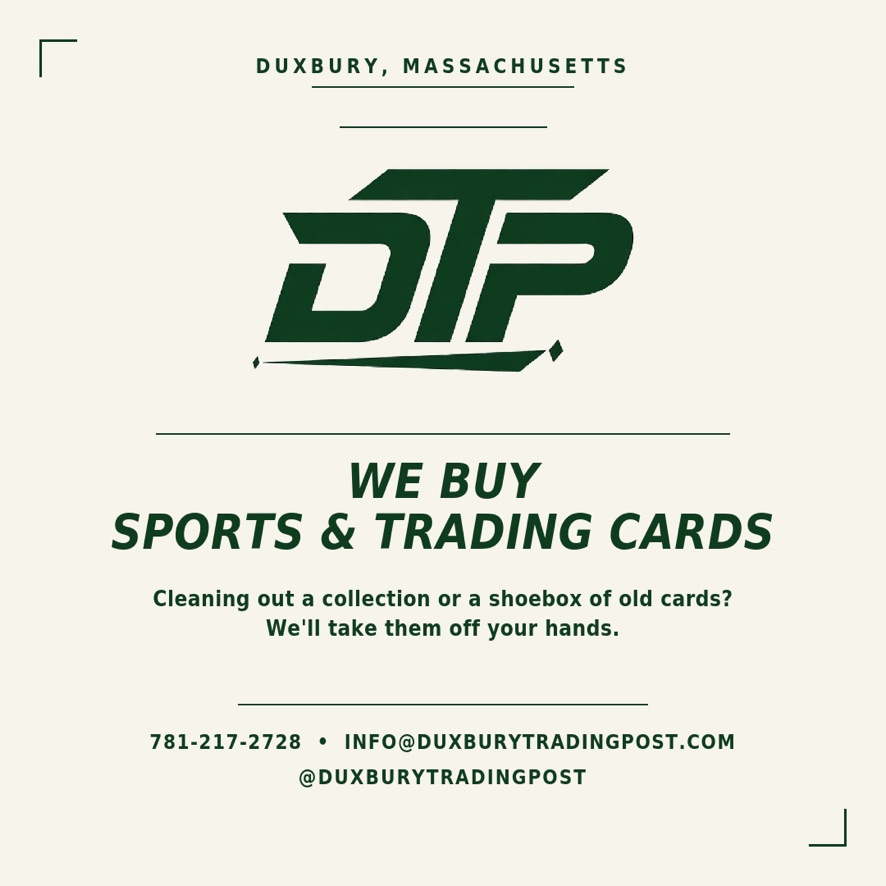
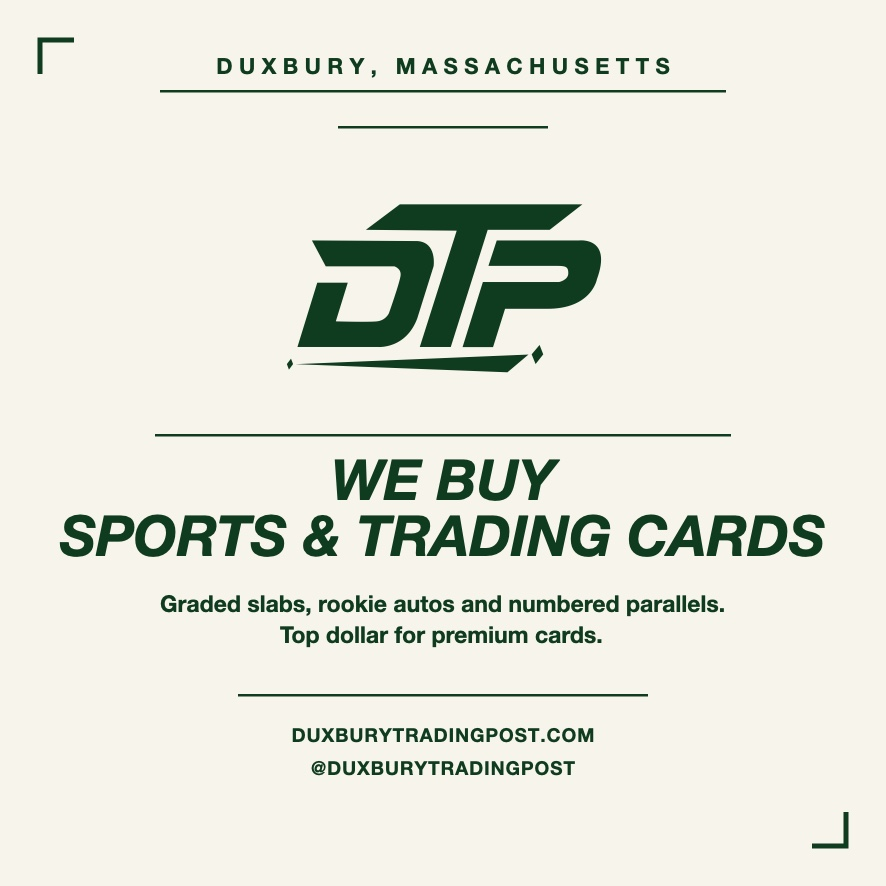
Take the phone number off the flyer and aim the buy message higher
The promo card carried 781-217-2728 baked into the image, so it never showed
up in a text search of the repo — and the repo is public. The flyer is rebuilt
from the real logo.svg with the number gone and the website in its place.

The buy pitch changes with it. "Cleaning out a collection or a shoebox of old
cards?" invites exactly the low-value inventory that loses money once fees and
postage are counted; the ask is now graded slabs, rookie autos and numbered
parallels. The form fields follow: the description hint asks for the parallel,
and condition/quantity becomes grade and cert number for slabbed cards.

The number is also gone from the README, which named it as a contact detail.

Note: both the old flyer and the old README line remain in git history, and the
repo is public. Removing them here does not purge them from earlier commits.

Claude-Session: https://claude.ai/code/session_0194d6jWLpTbJBJpLRf9vAtq

diff --git a/public/index.html b/public/index.html
@@ -191,11 +191,11 @@ src="https://www.facebook.com/tr?id=1103188462148115&ev=PageView&noscript=1"/></
   <div class="container sell-inner">
     <div class="sell-text">
       <h2 class="section-title">We Buy Sports &amp; Trading Cards</h2>
-      <p>Cleaning out a collection or a shoebox of old cards? We'll take them off your hands. Fill in the form below and include:</p>
+      <p>Have graded slabs, rookie autos or numbered parallels? We pay top dollar for premium cards. Fill in the form below and include:</p>
       <ul class="sell-list">
         <li>Photos of the front and back of each item</li>
-        <li>A brief description (set, player/character, year if known)</li>
-        <li>Condition and quantity</li>
+        <li>A brief description (set, player, year, and the parallel or insert if known)</li>
+        <li>Grade and cert number if it&rsquo;s slabbed &mdash; condition and quantity if it&rsquo;s raw</li>
       </ul>
       <p>We&rsquo;ll get back to you with an offer within 1&ndash;2 business days.</p>
 
@@ -214,7 +214,7 @@ src="https://www.facebook.com/tr?id=1103188462148115&ev=PageView&noscript=1"/></
           </label>
           <label>What do you have?
             <textarea name="details" rows="4" required
-              placeholder="Set, player, year and condition if you know them &mdash; a rough description is fine."></textarea>
+              placeholder="Set, player, year, parallel, and grade if slabbed &mdash; a rough description is fine."></textarea>
           </label>
 
           <label class="sell-photos-label">Photos

diff --git a/README.md b/README.md
@@ -6,7 +6,7 @@ Static site (no build tools needed). Just open `index.html` in a browser, or dep
 
 - **eBay live listings** — pulls your active listings from `https://www.ebay.com/sch/i.html?_ssn=duxburytradingpost&_rss=1` and shows them under "Live on eBay". Updates automatically, no maintenance needed. If your eBay seller ID changes, update `EBAY_SELLER_ID` in `js/main.js`.
 - **Instagram / Facebook links** — pointed at `instagram.com/duxburytradingpost` and `facebook.com/duxburytradingpost`. Update the URLs in `index.html` (search for `social-links`) if those aren't your exact handles.
-- **Phone / email / address** — pulled from your promo flyer (781-217-2728, info@duxburytradingpost.com, Duxbury, MA). Update in the Contact section of `index.html` if anything's off.
+- **Email / address** — `info@duxburytradingpost.com`, Duxbury, MA. Update in the Contact section of `index.html` if anything's off. No phone number is published on the site, deliberately — the sell form and email are the contact routes.
 
 ## What you still need to do
 
